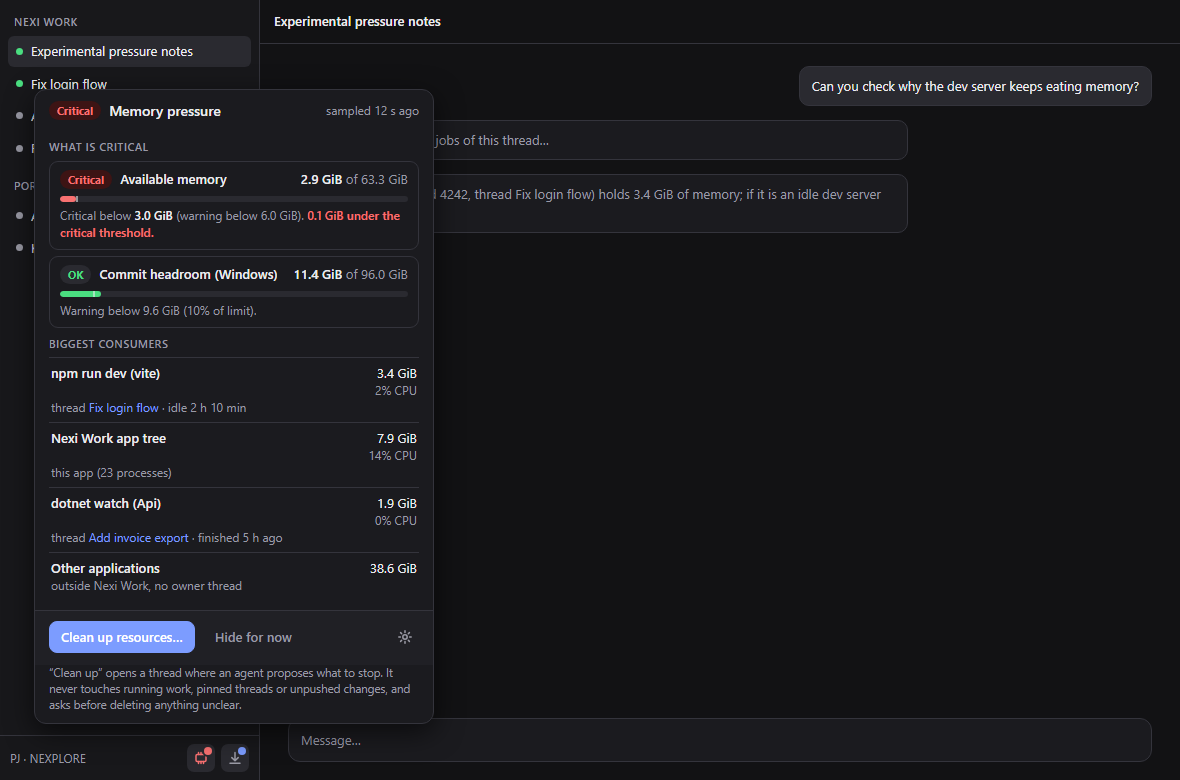
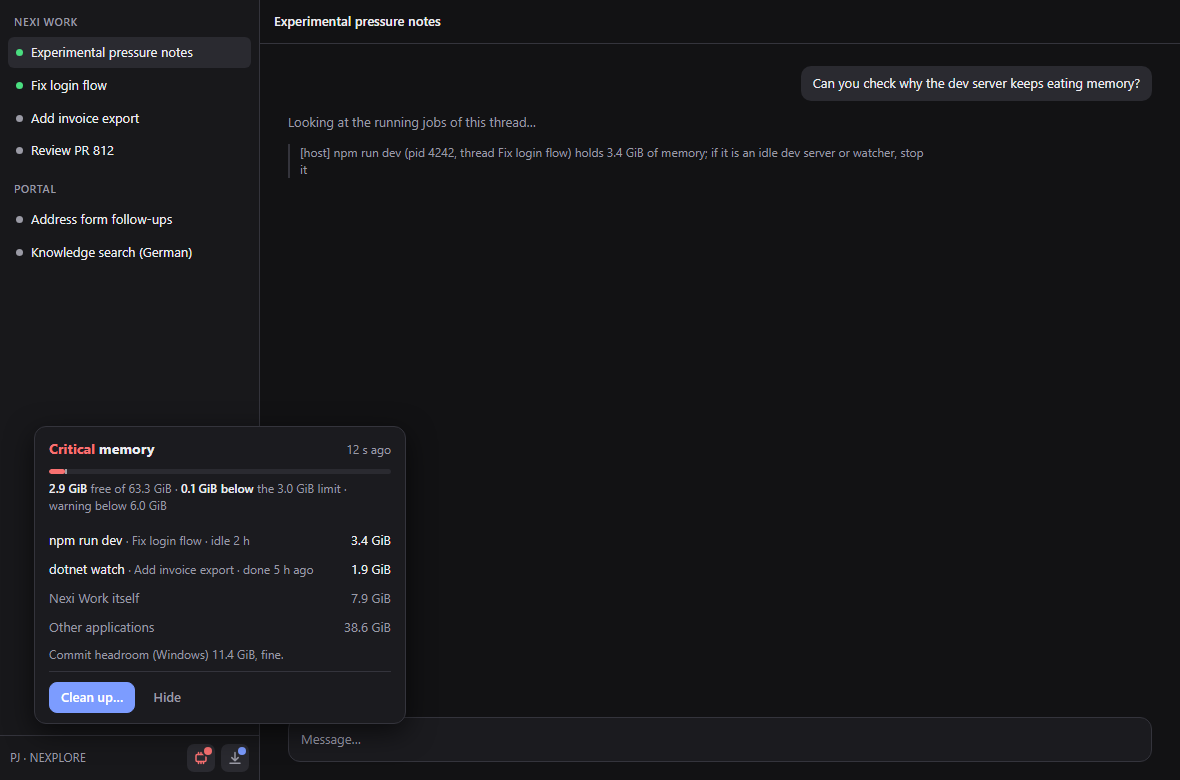
docs(mockup): flatter drill-down with less text, cleanup thread mockup, cleanup prompt and workflow
Mockup revision after PJ's review: no nested cards, no repeated numbers. Adds the cleanup thread picture and the prompt and workflow as a design doc. Not for merge. Refs hive/nx-nexi#954

diff --git a/docs/mockups/pressure-compact-ui/t3team-mockup.html b/docs/mockups/pressure-compact-ui/t3team-mockup.html
@@ -2,27 +2,25 @@
 <html lang="en">
 <head>
 <meta charset="utf-8" />
-<title>Compact pressure badge + drill-down (mockup)</title>
+<title>Compact pressure badge, drill-down and cleanup thread (mockup v2)</title>
 <style>
   :root { --bg:#fafafa; --panel:#ffffff; --side:#f3f3f4; --ctl:#e9e9eb; --fg:#18181b; --mut:#6b6b73; --bd:#dcdce0;
-          --warn:#b45309; --warnbg:#fef3c7; --crit:#b91c1c; --critbg:#fee2e2; --ok:#15803d; --acc:#2f5bd6; --shadow:0 8px 28px rgba(0,0,0,.18); }
+          --warn:#b45309; --crit:#b91c1c; --ok:#15803d; --acc:#2f5bd6; --shadow:0 8px 28px rgba(0,0,0,.18); }
   .dark { --bg:#121214; --panel:#1b1b1f; --side:#18181b; --ctl:#2a2a30; --fg:#ececf0; --mut:#9a9aa5; --bd:#34343c;
-          --warn:#fbbf24; --warnbg:#3a2c0a; --crit:#f87171; --critbg:#3d1414; --ok:#4ade80; --acc:#7c9cff; --shadow:0 8px 28px rgba(0,0,0,.6); }
+          --warn:#fbbf24; --crit:#f87171; --ok:#4ade80; --acc:#7c9cff; --shadow:0 8px 28px rgba(0,0,0,.6); }
   * { box-sizing:border-box; }
   html,body { margin:0; height:100%; }
-  body { font:13px/1.4 "Segoe UI",system-ui,sans-serif; background:var(--bg); color:var(--fg); }
+  body { font:13px/1.45 "Segoe UI",system-ui,sans-serif; background:var(--bg); color:var(--fg); }
   .app { display:flex; height:100vh; position:relative; overflow:hidden; }
   .side { width:260px; background:var(--side); border-right:1px solid var(--bd); display:flex; flex-direction:column; flex:none; }
   .side h6 { margin:14px 14px 6px; font-size:11px; letter-spacing:.04em; text-transform:uppercase; color:var(--mut); font-weight:600; }
   .row { margin:1px 8px; padding:6px 8px; border-radius:6px; display:flex; gap:8px; align-items:center; white-space:nowrap; overflow:hidden; text-overflow:ellipsis; }
   .row.sel { background:var(--ctl); }
-  .dot { width:7px; height:7px; border-radius:50%; background:var(--mut); flex:none; }
-  .dot.run { background:var(--ok); }
+  .dot { width:7px; height:7px; border-radius:50%; background:var(--mut); flex:none; } .dot.run { background:var(--ok); }
   .grow { flex:1; }
-  .foot { padding:8px 10px; border-top:1px solid var(--bd); display:flex; align-items:center; gap:6px; position:relative; }
+  .foot { padding:8px 10px; border-top:1px solid var(--bd); display:flex; align-items:center; gap:6px; }
   .foot .who { color:var(--mut); font-size:12px; flex:1; }
-  .ibtn { width:28px; height:28px; border-radius:7px; display:grid; place-items:center; position:relative; background:transparent; color:var(--mut); border:0; }
-  .ibtn.ctl { background:var(--ctl); }
+  .ibtn { width:28px; height:28px; border-radius:7px; display:grid; place-items:center; position:relative; background:var(--ctl); color:var(--mut); border:0; }
   .ibtn svg { width:16px; height:16px; }
   .badge { position:absolute; top:3px; right:3px; width:8px; height:8px; border-radius:50%; box-shadow:0 0 0 2px var(--ctl); }
   .badge.warn { background:var(--warn); } .badge.crit { background:var(--crit); }
@@ -30,131 +28,117 @@
   .main { flex:1; display:flex; flex-direction:column; min-width:0; }
   .top { height:44px; border-bottom:1px solid var(--bd); display:flex; align-items:center; padding:0 14px; gap:10px; }
   .top .title { font-weight:600; }
-  .msgs { flex:1; padding:22px 28px; display:flex; flex-direction:column; gap:14px; }
-  .msg { max-width:620px; background:var(--panel); border:1px solid var(--bd); border-radius:10px; padding:10px 12px; color:var(--mut); }
-  .msg.me { align-self:flex-end; color:var(--fg); background:var(--ctl); }
+  .msgs { flex:1; padding:22px 28px; display:flex; flex-direction:column; gap:12px; overflow:hidden; }
+  .msg { max-width:640px; color:var(--mut); }
+  .msg.me { align-self:flex-end; color:var(--fg); background:var(--ctl); border-radius:10px; padding:8px 12px; }
+  .msg.sys { font-size:12px; border-left:2px solid var(--bd); padding-left:10px; }
   .composer { margin:0 28px 18px; border:1px solid var(--bd); background:var(--panel); border-radius:12px; padding:12px; color:var(--mut); }
-  /* tooltip */
-  .tip { position:absolute; background:#111114; color:#f3f3f5; border-radius:8px; padding:7px 10px; font-size:12px; max-width:250px; box-shadow:var(--shadow); z-index:5; }
-  .tip b { color:#fff; } .tip small { color:#b9b9c2; display:block; margin-top:2px; }
-  /* popover */
-  .pop { position:absolute; background:var(--panel); border:1px solid var(--bd); border-radius:12px; box-shadow:var(--shadow); z-index:6; width:400px; overflow:hidden; }
-  .pop header { display:flex; align-items:center; gap:8px; padding:11px 14px 9px; }
-  .pill { font-size:11px; font-weight:700; padding:2px 8px; border-radius:99px; }
-  .pill.crit { background:var(--critbg); color:var(--crit); } .pill.warn { background:var(--warnbg); color:var(--warn); } .pill.ok { background:var(--ctl); color:var(--ok); }
-  .pop header .t { font-weight:600; font-size:14px; }
-  .pop header .age { margin-left:auto; white-space:nowrap; color:var(--mut); font-size:12px; }
-  .sec { padding:2px 14px 10px; }
-  .sec h5 { margin:8px 0 6px; font-size:11px; letter-spacing:.04em; text-transform:uppercase; color:var(--mut); font-weight:600; }
-  .met { padding:8px 10px; border:1px solid var(--bd); border-radius:9px; margin-bottom:6px; }
-  .met .l { display:flex; align-items:center; gap:8px; font-weight:600; flex-wrap:wrap; } .met .l .v { white-space:nowrap; }
-  .met .v { margin-left:auto; font-variant-numeric:tabular-nums; }
-  .bar { height:6px; border-radius:99px; background:var(--ctl); margin:7px 0 5px; position:relative; overflow:hidden; }
-  .bar i { position:absolute; left:0; top:0; bottom:0; border-radius:99px; }
-  .bar i.crit { background:var(--crit); } .bar i.warn { background:var(--warn); } .bar i.ok { background:var(--ok); }
-  .bar u { position:absolute; top:-1px; bottom:-1px; width:2px; background:var(--fg); opacity:.55; }
-  .met .s { color:var(--mut); font-size:12px; }
-  .met .s b { color:var(--crit); font-weight:600; }
-  .proc { display:grid; grid-template-columns:1fr auto; gap:0 10px; padding:6px 2px; border-top:1px solid var(--bd); }
-  .proc:first-of-type { border-top:0; }
-  .proc .n { font-weight:600; } .proc .th { color:var(--mut); font-size:12px; grid-column:1; } .proc .num { text-align:right; font-variant-numeric:tabular-nums; } .proc .num span { color:var(--mut); display:block; font-size:12px; }
-  .proc .th a { color:var(--acc); text-decoration:none; }
-  .acts { display:flex; gap:8px; padding:10px 14px 12px; border-top:1px solid var(--bd); background:color-mix(in srgb,var(--ctl) 35%,transparent); align-items:center; }
-  .btn { border:1px solid var(--bd); background:var(--panel); color:var(--fg); border-radius:8px; padding:6px 11px; font:inherit; font-weight:600; }
-  .btn.pri { background:var(--acc); border-color:var(--acc); color:#fff; }
-  .btn.ghost { border-color:transparent; background:transparent; color:var(--mut); font-weight:500; }
-  .note { color:var(--mut); font-size:11.5px; padding:0 14px 10px; }
-  .label { position:absolute; left:14px; top:10px; z-index:9; font-size:11px; color:var(--mut); letter-spacing:.03em; }
-  /* narrow */
-  .narrow { width:390px; margin:0 auto; border-left:1px solid var(--bd); border-right:1px solid var(--bd); } .narrow .side { display:none; } .narrow .pop { width:auto; }
-  .narrow .msgs { padding:14px 14px; } .narrow .composer { margin:0 14px 14px; }
-  .narrow .sheet { position:absolute; left:0; right:0; width:390px; bottom:0; background:var(--panel); border-top:1px solid var(--bd); border-radius:16px 16px 0 0; box-shadow:var(--shadow); z-index:6; max-height:86%; overflow:hidden; }
-  .narrow .sheet .grab { width:38px; height:4px; border-radius:9px; background:var(--bd); margin:8px auto 2px; }
-  .scrim { position:absolute; inset:0; background:rgba(0,0,0,.28); z-index:4; }
-  .dark .scrim { background:rgba(0,0,0,.5); }
+  .tip { position:absolute; background:#111114; color:#f3f3f5; border-radius:7px; padding:6px 9px; font-size:12px; box-shadow:var(--shadow); z-index:5; white-space:nowrap; }
+  .pop { background:var(--panel); border:1px solid var(--bd); border-radius:12px; box-shadow:var(--shadow); width:372px; padding:12px 14px 10px; }
+  .pop .hd { display:flex; align-items:baseline; gap:8px; }
+  .pop .hd b { font-size:14px; } .lvl.crit { color:var(--crit); } .lvl.warn { color:var(--warn); }
+  .pop .hd .age { margin-left:auto; color:var(--mut); font-size:12px; }
+  .bar { height:5px; border-radius:99px; background:var(--ctl); margin:9px 0 6px; position:relative; overflow:hidden; }
+  .bar i { position:absolute; left:0; top:0; bottom:0; border-radius:99px; } .bar i.crit { background:var(--crit); } .bar i.warn { background:var(--warn); }
+  .bar u { position:absolute; top:0; bottom:0; width:2px; background:var(--fg); opacity:.6; }
+  .fact { color:var(--mut); font-size:12px; } .fact b { color:var(--fg); font-weight:600; }
+  .list { margin:12px 0 4px; }
+  .list .it { display:flex; gap:8px; padding:5px 0; align-items:baseline; }
+  .list .it .n { flex:1; min-width:0; white-space:nowrap; overflow:hidden; text-overflow:ellipsis; }
+  .list .it .n small { color:var(--mut); font-size:12px; }
+  .list .it .v { font-variant-numeric:tabular-nums; }
+  .list .it.mut .n, .list .it.mut .v { color:var(--mut); }
+  .acts { display:flex; gap:6px; margin-top:8px; padding-top:10px; border-top:1px solid var(--bd); }
+  .btn { border:1px solid var(--bd); background:var(--panel); color:var(--fg); border-radius:8px; padding:5px 11px; font:inherit; font-weight:600; }
+  .btn.pri { background:var(--acc); border-color:var(--acc); color:#fff; } .btn.ghost { border-color:transparent; background:transparent; color:var(--mut); font-weight:500; }
+  .narrow { width:390px; margin:0 auto; border-left:1px solid var(--bd); border-right:1px solid var(--bd); }
+  .narrow .side { display:none; } .narrow .msgs { padding:14px; } .narrow .composer { margin:0 14px 14px; }
+  .narrow .sheet { position:absolute; left:0; width:390px; bottom:0; background:var(--panel); border-top:1px solid var(--bd); border-radius:16px 16px 0 0; box-shadow:var(--shadow); z-index:6; }
+  .narrow .sheet .grab { width:38px; height:4px; border-radius:9px; background:var(--bd); margin:8px auto 0; }
+  .narrow .pop { border:0; box-shadow:none; width:auto; border-radius:0; padding:10px 16px 14px; }
+  .scrim { position:absolute; inset:0; background:rgba(0,0,0,.28); z-index:4; } .dark .scrim { background:rgba(0,0,0,.5); }
+  .prompt { align-self:flex-end; max-width:600px; background:var(--ctl); border-radius:10px; padding:10px 12px; color:var(--fg); }
+  .prompt small { display:block; color:var(--mut); margin-bottom:4px; }
+  .check .grp { font-weight:600; color:var(--fg); margin:10px 0 3px; }
+  .check label { display:flex; gap:8px; padding:2px 0; color:var(--fg); }
+  .check .box { width:14px; height:14px; border:1.5px solid var(--mut); border-radius:3px; flex:none; margin-top:2px; }
+  .check .box.on { background:var(--acc); border-color:var(--acc); }
+  .check .why { color:var(--mut); } .check .lock { color:var(--mut); font-weight:500; }
 </style>
 </head>
 <body>
 <div id="root"></div>
 <script>
 const q = new URLSearchParams(location.search);
-const theme = q.get("theme") || "light";
-const narrow = (q.get("w") || "desktop") === "narrow";
-const level = q.get("level") || "crit";
+const theme = q.get("theme") || "light", narrow = (q.get("w") || "desktop") === "narrow";
+const level = q.get("level") || "crit", view = q.get("view") || "drill";
 document.documentElement.className = theme === "dark" ? "dark" : "";
+const crit = level === "crit", cls = crit ? "crit" : "warn";
 
-const bolt = '<svg viewBox="0 0 16 16" fill="none" stroke="currentColor" stroke-width="1.5" stroke-linecap="round" stroke-linejoin="round"><rect x="3" y="4.5" width="10" height="7" rx="1.2"/><path d="M5.5 4.5v-2M8 4.5v-2M10.5 4.5v-2M5.5 11.5v2M8 11.5v2M10.5 11.5v2"/></svg>';
+const chip = '<svg viewBox="0 0 16 16" fill="none" stroke="currentColor" stroke-width="1.5" stroke-linecap="round" stroke-linejoin="round"><rect x="3" y="4.5" width="10" height="7" rx="1.2"/><path d="M5.5 4.5v-2M8 4.5v-2M10.5 4.5v-2M5.5 11.5v2M8 11.5v2M10.5 11.5v2"/></svg>';
 const dl = '<svg viewBox="0 0 16 16" fill="none" stroke="currentColor" stroke-width="1.5" stroke-linecap="round" stroke-linejoin="round"><path d="M8 2.5v8M4.8 7.6 8 10.8l3.2-3.2M3 13.2h10"/></svg>';
-const gear = '<svg viewBox="0 0 16 16" fill="none" stroke="currentColor" stroke-width="1.5" stroke-linecap="round"><circle cx="8" cy="8" r="2.2"/><path d="M8 1.8v1.6M8 12.6v1.6M1.8 8h1.6M12.6 8h1.6M3.6 3.6l1.1 1.1M11.3 11.3l1.1 1.1M3.6 12.4l1.1-1.1M11.3 4.7l1.1-1.1"/></svg>';
 
-const crit = level === "crit";
-const cls = crit ? "crit" : "warn";
-const word = crit ? "Critical" : "Warning";
+const head = crit
+  ? { lvl: "Critical", free: "2.9 GiB", fact: `<b>0.1 GiB below</b> the 3.0 GiB limit · warning below 6.0 GiB`, fill: 4.6, tick: 4.7 }
+  : { lvl: "Low", free: "5.1 GiB", fact: `<b>0.9 GiB below</b> the 6.0 GiB warning · critical below 3.0 GiB`, fill: 8.1, tick: 9.5 };
 
-const metrics = crit ? `
-  <div class="met"><div class="l"><span class="pill crit">Critical</span>Available memory<span class="v">2.9 GiB <span style="color:var(--mut);font-weight:400">of 63.3 GiB</span></span></div>
-    <div class="bar"><i class="crit" style="width:4.6%"></i><u style="left:4.7%" title="critical"></u></div>
-    <div class="s met-s s">Critical below <b style="color:var(--fg)">3.0 GiB</b> (warning below 6.0 GiB). <b>0.1 GiB under the critical threshold.</b></div></div>
-  <div class="met"><div class="l"><span class="pill ok">OK</span>Commit headroom (Windows)<span class="v">11.4 GiB <span style="color:var(--mut);font-weight:400">of 96.0 GiB</span></span></div>
-    <div class="bar"><i class="ok" style="width:11.9%"></i><u style="left:9.6%"></u></div>
-    <div class="s">Warning below 9.6 GiB (10% of limit).</div></div>`
- : `
-  <div class="met"><div class="l"><span class="pill warn">Warning</span>Available memory<span class="v">5.1 GiB <span style="color:var(--mut);font-weight:400">of 63.3 GiB</span></span></div>
-    <div class="bar"><i class="warn" style="width:8.1%"></i><u style="left:4.7%"></u><u style="left:9.5%"></u></div>
-    <div class="s">Warning below <b style="color:var(--fg)">6.0 GiB</b>, critical below 3.0 GiB. <b style="color:var(--warn)">0.9 GiB under the warning threshold.</b></div></div>
-  <div class="met"><div class="l"><span class="pill ok">OK</span>Commit headroom (Windows)<span class="v">18.2 GiB <span style="color:var(--mut);font-weight:400">of 96.0 GiB</span></span></div>
-    <div class="bar"><i class="ok" style="width:19%"></i><u style="left:9.6%"></u></div><div class="s">Warning below 9.6 GiB (10% of limit).</div></div>`;
+const drill = `<div class="pop">
+  <div class="hd"><b><span class="lvl ${cls}">${head.lvl}</span> memory</b><span class="age">12 s ago</span></div>
+  <div class="bar"><i class="${cls}" style="width:${head.fill}%"></i><u style="left:${head.tick}%"></u></div>
+  <div class="fact"><b>${head.free}</b> free of 63.3 GiB · ${head.fact}</div>
+  <div class="list">
+    <div class="it"><span class="n">npm run dev <small>· Fix login flow · idle 2 h</small></span><span class="v">3.4 GiB</span></div>
+    <div class="it"><span class="n">dotnet watch <small>· Add invoice export · done 5 h ago</small></span><span class="v">1.9 GiB</span></div>
+    <div class="it mut"><span class="n">Nexi Work itself</span><span class="v">7.9 GiB</span></div>
+    <div class="it mut"><span class="n">Other applications</span><span class="v">38.6 GiB</span></div>
+  </div>
+  <div class="fact">Commit headroom (Windows) 11.4 GiB, fine.</div>
+  <div class="acts"><button class="btn pri">Clean up…</button><button class="btn ghost">Hide</button></div>
+</div>`;
 
-const popBody = `
-  <header><span class="pill ${cls}">${word}</span><span class="t">Memory pressure</span><span class="age">sampled 12 s ago</span></header>
-  <div class="sec"><h5>What is ${crit ? "critical" : "low"}</h5>${metrics}
-  <h5>Biggest consumers</h5>
-  <div class="proc"><div class="n">npm run dev (vite)</div><div class="num">3.4 GiB<span>2% CPU</span></div><div class="th">thread <a>Fix login flow</a> · idle 2 h 10 min</div></div>
-  <div class="proc"><div class="n">Nexi Work app tree</div><div class="num">7.9 GiB<span>14% CPU</span></div><div class="th">this app (23 processes)</div></div>
-  <div class="proc"><div class="n">dotnet watch (Api)</div><div class="num">1.9 GiB<span>0% CPU</span></div><div class="th">thread <a>Add invoice export</a> · finished 5 h ago</div></div>
-  <div class="proc"><div class="n">Other applications</div><div class="num">38.6 GiB<span></span></div><div class="th">outside Nexi Work, no owner thread</div></div></div>
-  <div class="acts"><button class="btn pri">Clean up resources…</button><button class="btn ghost">Hide for now</button><span style="margin-left:auto" class="ibtn" title="Settings">${gear}</span></div>
-  <div class="note">“Clean up” opens a thread where an agent proposes what to stop. It never touches running work, pinned threads or unpushed changes, and asks before deleting anything unclear.</div>`;
-
-const tipText = crit
-  ? `<b>Memory critical</b><br>2.9 GiB available (critical below 3.0 GiB)<small>Click for details · right-click to hide</small>`
-  : `<b>Memory low</b><br>5.1 GiB available (warning below 6.0 GiB)<small>Click for details · right-click to hide</small>`;
-
-const sideRows = `
-  <h6>Nexi Work</h6>
-  <div class="row sel"><span class="dot run"></span>Experimental pressure notes</div>
-  <div class="row"><span class="dot run"></span>Fix login flow</div>
-  <div class="row"><span class="dot"></span>Add invoice export</div>
-  <div class="row"><span class="dot"></span>Review PR 812</div>
-  <h6>Portal</h6>
-  <div class="row"><span class="dot"></span>Address form follow-ups</div>
-  <div class="row"><span class="dot"></span>Knowledge search (German)</div>`;
-
-const chat = `
-  <div class="msg me">Can you check why the dev server keeps eating memory?</div>
+const chat = `<div class="msg me">Can you check why the dev server keeps eating memory?</div>
   <div class="msg">Looking at the running jobs of this thread…</div>
-  <div class="msg">[host] npm run dev (pid 4242, thread Fix login flow) holds 3.4 GiB of memory; if it is an idle dev server or watcher, stop it</div>`;
+  <div class="msg sys">[host] npm run dev (pid 4242, thread Fix login flow) holds 3.4 GiB of memory; if it is an idle dev server or watcher, stop it</div>`;
 
-const pressureBtn = `<button class="ibtn ctl pressure ${cls}" aria-label="Memory pressure ${word.toLowerCase()}">${bolt}<span class="badge ${cls}"></span></button>`;
-const updateBtn = `<button class="ibtn ctl" aria-label="Update available">${dl}<span class="badge" style="background:var(--acc)"></span></button>`;
+const cleanup = `
+  <div class="prompt"><small>Started from the memory badge · editable before it runs</small>
+    Free memory on this machine. Memory is critical: 2.9 GiB free of 63.3 GiB.<br>
+    Find what is no longer needed: processes of idle or finished threads, dev servers and watchers, old worktrees, build caches. Do not stop or delete anything yet: list it first, grouped, with size and why.</div>
+  <div class="msg">I looked at 14 threads, 9 worktrees and 6 caches. Nothing was changed. I would free <b style="color:var(--fg)">about 9.8 GiB</b>:
+  <div class="check">
+    <div class="grp">Processes · 5.3 GiB</div>
+    <label><span class="box on"></span><span>npm run dev, thread “Fix login flow” <span class="why">· idle 2 h · 3.4 GiB</span></span></label>
+    <label><span class="box on"></span><span>dotnet watch, thread “Add invoice export” <span class="why">· finished 5 h ago · 1.9 GiB</span></span></label>
+    <div class="grp">Worktrees · 3.1 GiB</div>
+    <label><span class="box on"></span><span>fix-portal-address-form <span class="why">· PR merged, clean · 1.2 GiB</span></span></label>
+    <label><span class="box"></span><span>review-t3code-cloud-prs <span class="why">· unsure: branch has no PR · 1.9 GiB</span></span></label>
+    <div class="grp">Caches · 1.4 GiB</div>
+    <label><span class="box on"></span><span>pnpm store, vite cache <span class="why">· rebuildable</span></span></label>
+    <div class="grp lock">Not touched: 2 running threads, 1 pinned thread, 2 worktrees with unpushed commits</div>
+  </div>
+  Tell me to go ahead. I ask once more before deleting the unsure worktree.</div>
+  <div class="msg me">Go ahead with the ticked ones.</div>`;
 
+const pressureBtn = `<button class="ibtn pressure ${cls}">${chip}<span class="badge ${cls}"></span></button>`;
+const updateBtn = `<button class="ibtn">${dl}<span class="badge" style="background:var(--acc)"></span></button>`;
+const sideRows = (first) => `<h6>Nexi Work</h6><div class="row sel"><span class="dot run"></span>${first}</div><div class="row"><span class="dot run"></span>Fix login flow</div><div class="row"><span class="dot"></span>Add invoice export</div><div class="row"><span class="dot"></span>Review PR 812</div><h6>Portal</h6><div class="row"><span class="dot"></span>Address form follow-ups</div><div class="row"><span class="dot"></span>Knowledge search (German)</div>`;
+const tipText = crit ? "Memory critical · 2.9 GiB free (limit 3.0)" : "Memory low · 5.1 GiB free (warning 6.0)";
+
+const isCleanup = view === "cleanup", isTip = view === "tip";
+const title = isCleanup ? "Clean up resources" : "Experimental pressure notes";
+const body = isCleanup ? cleanup : chat;
 let html;
 if (!narrow) {
-  html = `<div class="app">
-    <aside class="side">${sideRows}<div class="grow"></div>
+  html = `<div class="app"><aside class="side">${sideRows(title)}<div class="grow"></div>
       <div class="foot"><span class="who">PJ · NEXPLORE</span>${pressureBtn}${updateBtn}</div></aside>
-    <section class="main"><div class="top"><span class="title">Experimental pressure notes</span></div>
-      <div class="msgs">${chat}</div><div class="composer">Message…</div></section>
-    ${q.get("open")==="0"?"":`<div class="pop" style="left:34px; bottom:56px;">${popBody}</div>`}
-    <div class="tip" style="left:${q.get("tip")==="1"?"96":"-999"}px; bottom:52px;">${tipText}</div>
-  </div>`;
+    <section class="main"><div class="top"><span class="title">${title}</span></div><div class="msgs">${body}</div>
+      <div class="composer">Message…</div></section>
+    ${view === "drill" ? `<div style="position:absolute;left:34px;bottom:56px;z-index:6">${drill}</div>` : ""}
+    ${isTip ? `<div class="tip" style="left:60px;bottom:50px">${tipText}</div>` : ""}</div>`;
 } else {
-  html = `<div class="app narrow">
-    <section class="main"><div class="top"><span class="title">Experimental pressure notes</span><span class="grow"></span>${pressureBtn}</div>
-      <div class="msgs">${chat}</div><div class="composer">Message…</div></section>
-    <div class="scrim"></div>
-    <div class="sheet"><div class="grab"></div><div class="pop" style="position:static;border:0;box-shadow:none;border-radius:0;">${popBody}</div></div>
-  </div>`;
+  html = `<div class="app narrow"><section class="main"><div class="top"><span class="title">${title}</span><span class="grow"></span>${pressureBtn}</div>
+    <div class="msgs">${body}</div><div class="composer">Message…</div></section>
+    ${view === "drill" ? `<div class="scrim"></div><div class="sheet"><div class="grab"></div>${drill}</div>` : ""}</div>`;
 }
 document.getElementById("root").innerHTML = html;
 </script>

diff --git a/docs/mockups/pressure-compact-ui/t3team-cleanup-workflow.md b/docs/mockups/pressure-compact-ui/t3team-cleanup-workflow.md
@@ -1,0 +1,36 @@
+# Clean up resources: prompt and workflow (design, not built)
+
+## Trigger
+The drill-down's **Clean up…** button opens a **new visible thread** "Clean up resources" in the current project (default provider and model, default runtime mode, no extra privileges). Its first message is the prompt below, filled with the live numbers. It is editable before it is sent. Nothing runs without that send.
+
+## First message (the prompt)
+```
+Free memory on this machine. Memory is {level}: {free} free of {total}.
+
+Find what is no longer needed: processes of idle or finished threads, dev servers and
+watchers, old worktrees, build caches. Do not stop or delete anything yet: list it first,
+grouped, with size and why.
+
+Rules (the host enforces the first four; you follow the rest):
+1. Never touch a running thread, a pinned thread, or a worktree with unpushed commits.
+2. Only stop processes and delete worktrees that the inventory tool lists as unprotected.
+3. A cache is deleted only if the inventory marks it rebuildable.
+4. Nothing is stopped or deleted before I confirm that exact list.
+5. If anything is unclear (no PR, unknown owner, recently modified), ask me; do not guess.
+6. Report what you freed, per item, and what you left alone.
+```
+
+## Steps the agent takes
+1. **Inventory (read only).** One host tool, `t3team.resources.inventory`, returns candidates: processes (pid, command, owning thread, thread state, idle time, RSS), worktrees (path, branch, PR state, dirty or unpushed, size, last used) and caches (path, size, rebuildable). Every row carries `protected: [reasons]` computed by the host: thread running, thread pinned, worktree has unpushed commits or uncommitted changes, process is not a descendant of this server.
+2. **Classify.** The agent groups the unprotected rows into: safe (owner finished, PR merged and clean, rebuildable cache), unsure (no PR, unknown owner, recent activity), and untouchable (everything protected, summarised in one line).
+3. **Propose.** One message: grouped checklist with size and reason, the total, and the "not touched" line (see the mockup). Nothing has changed at this point.
+4. **Confirm.** The user ticks or unticks and says go ahead. Unsure items are asked about once more, individually, before they are deleted.
+5. **Act.** The agent calls `t3team.resources.stop` or `t3team.resources.remove` with the confirmed ids only. The host re-checks protection and identity (pid plus start time, as the existing cleanup does) at call time and refuses protected or changed items, so a stale list cannot do harm.
+6. **Report.** Freed per item, refused items with the host's reason, and the new free memory.
+
+## What enforces the protections
+The prompt states the rules, but the tools enforce them: the inventory flags protection, and the two action tools accept only ids from a fresh inventory, re-verify protection at call time, and never take a path or a pid typed by the agent. Worktrees and caches are deleted only through these tools, never through a shell command the agent invents.
+
+## Not decided yet (needs PJ)
+- Whether the action tools need an approval prompt on top of the confirmation message (default in this design: no, the confirmation is the approval).
+- Whether "old worktrees" may include worktrees of other projects (design: current project's machine only, listed per project).
